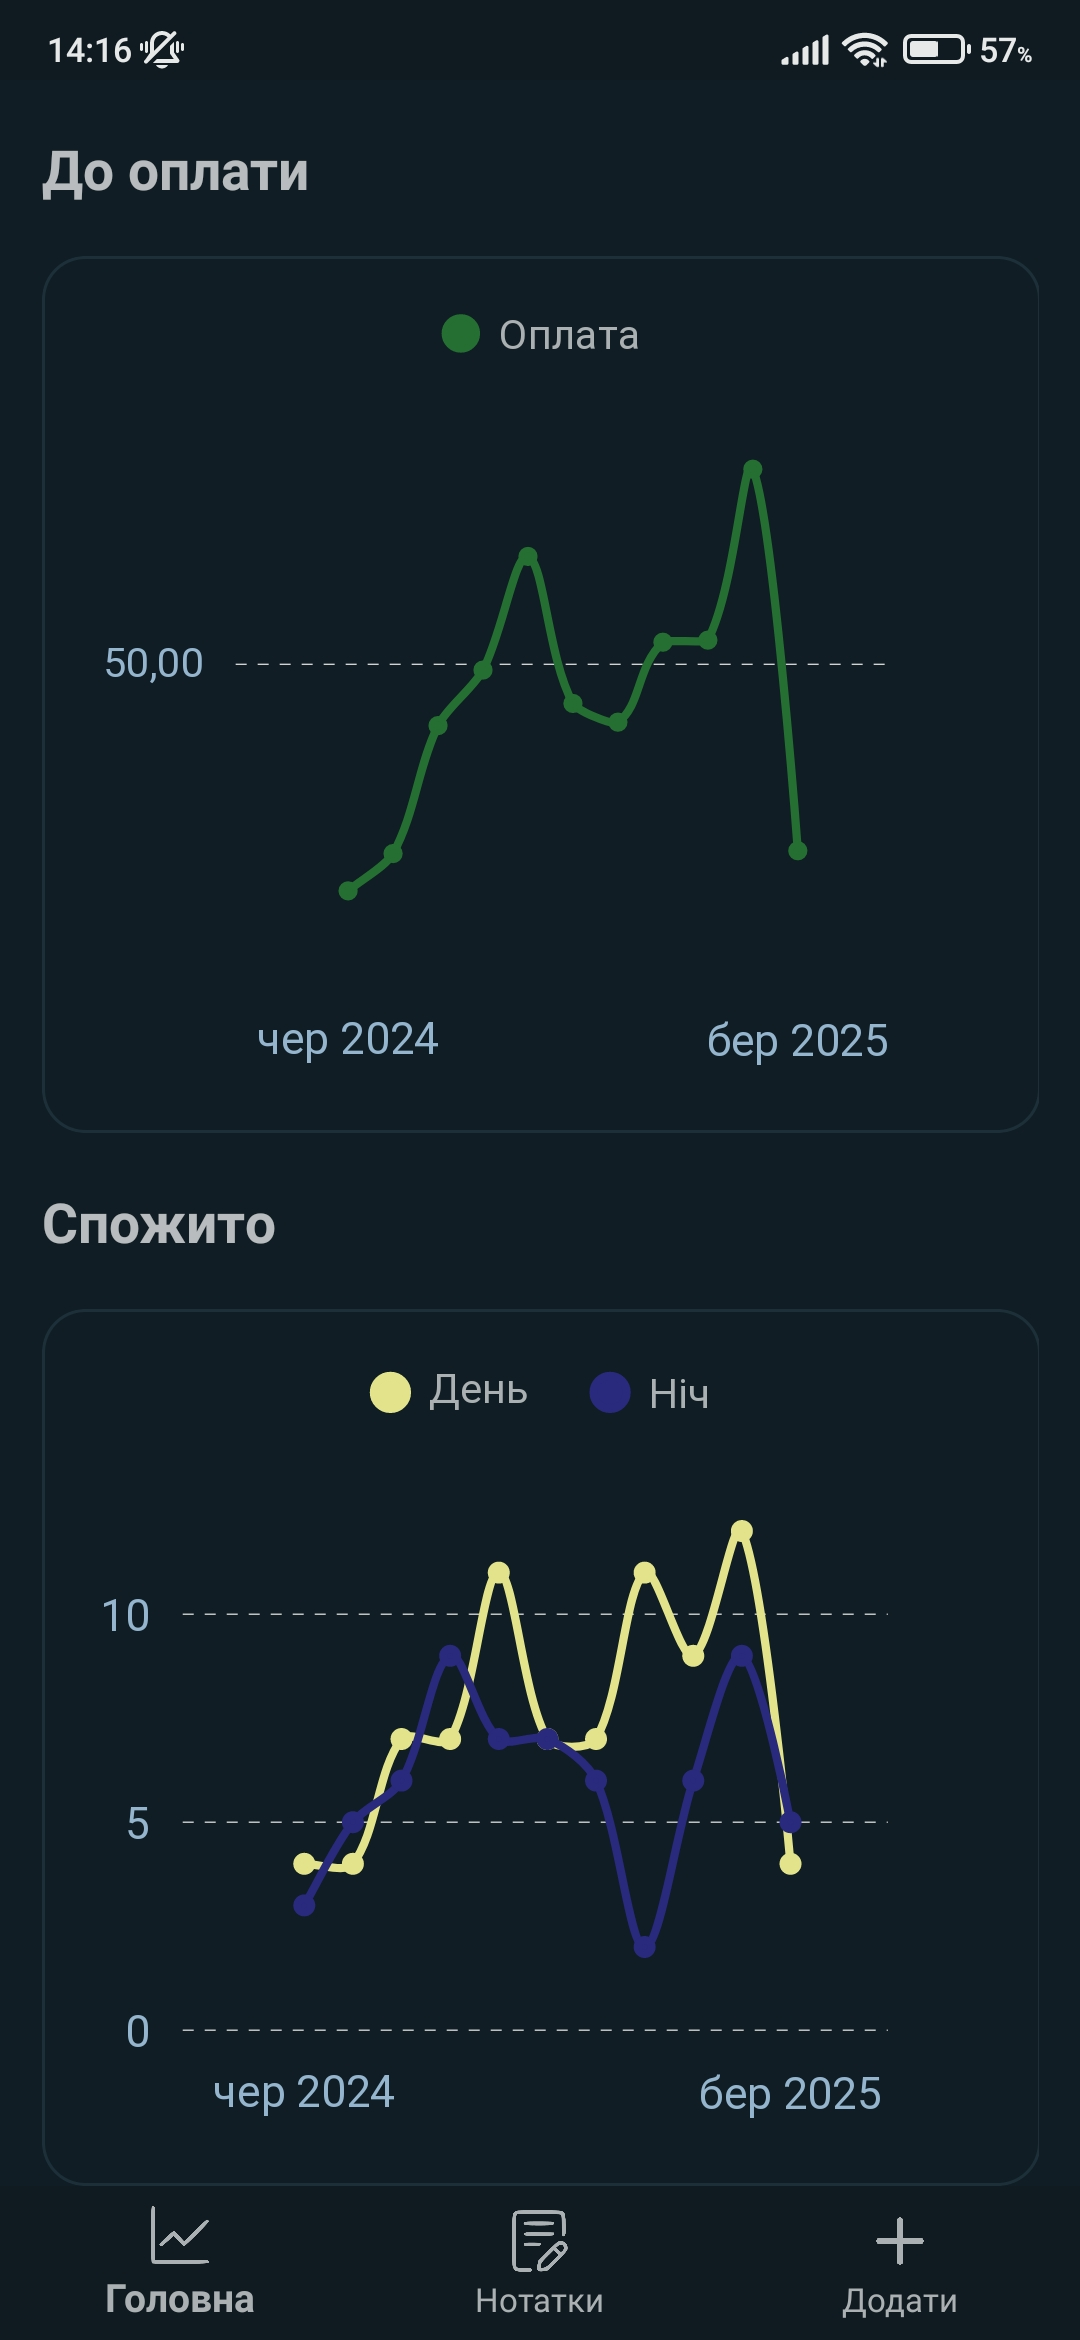
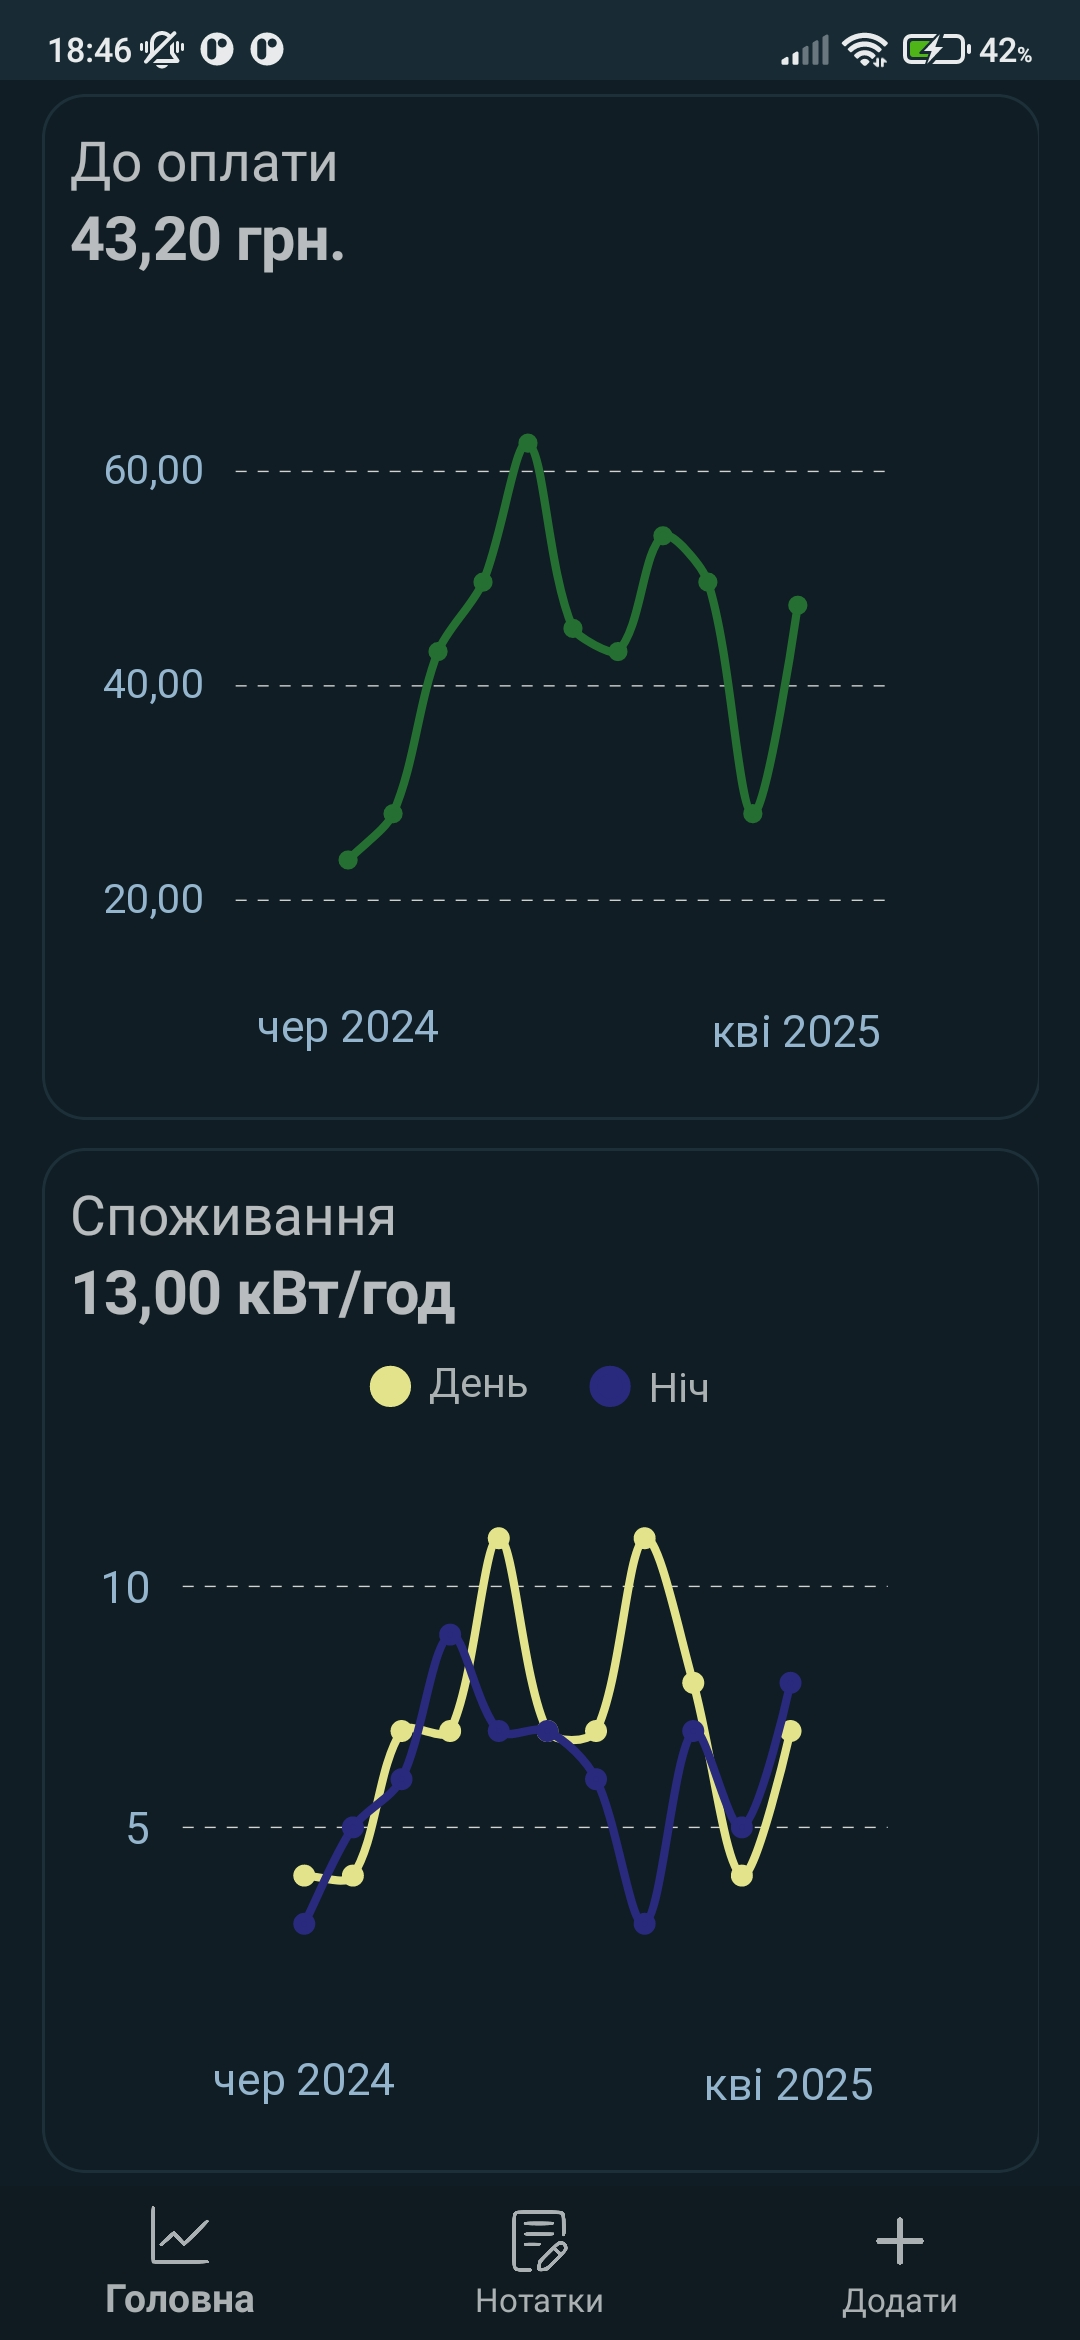
Added average values for amount to pay and kilowatt consumed

diff --git a/ElectricityApp/ElectricityApp/Pages/MainPage.xaml b/ElectricityApp/ElectricityApp/Pages/MainPage.xaml
@@ -17,6 +17,7 @@
                 <views:ChartContainerView
                     x:Name="AmountToPayChart"
                     Text="До оплати"
+                    AverageValue="{Binding NotesService.AverageAmount, StringFormat='{0:C2}'}"
                     Series="{Binding ChartsService.AmountsToPaySeries}"
                     XAxes="{Binding ChartsService.DateXAxes}"
                     YAxes="{Binding ChartsService.AmountToPayYAxes}"/>
@@ -25,6 +26,7 @@
                     x:Name="KilowattConsumedChart"
                     Grid.Row="1"
                     Text="Споживання"
+                    AverageValue="{Binding NotesService.AverageKilowattConsumed, StringFormat='{0:F2} кВт/год'}"
                     Series="{Binding ChartsService.KilowattConsumedSeries}"
                     XAxes="{Binding ChartsService.DateXAxes}"
                     YAxes="{Binding ChartsService.KilowattConsumedYAxes}"

diff --git a/ElectricityApp/ElectricityApp/Views/ChartContainerView.xaml b/ElectricityApp/ElectricityApp/Views/ChartContainerView.xaml
@@ -13,13 +13,19 @@
         BindingContext="{Binding Source={x:Reference This}}">
 
         <Grid
-            RowDefinitions="0.15*, *">
+            RowDefinitions="Auto, *">
 
-            <Label
-                Text="{Binding Text}"
-                VerticalTextAlignment="Center"
-                FontSize="20"
-                FontAttributes="Bold"/>
+            <VerticalStackLayout>
+                <Label
+                    Text="{Binding Text}"
+                    VerticalTextAlignment="Center"
+                    FontSize="20"/>
+                <Label
+                    Text="{Binding AverageValue}"
+                    VerticalTextAlignment="Center"
+                    FontSize="22"
+                    FontAttributes="Bold"/>
+            </VerticalStackLayout>
             <lvc:CartesianChart
                 Grid.Row="1"
                 x:Name="Chart"

diff --git a/ElectricityApp/ElectricityApp/Services/NotesService.cs b/ElectricityApp/ElectricityApp/Services/NotesService.cs
@@ -1,16 +1,20 @@
 using System.Collections.ObjectModel;
+using CommunityToolkit.Mvvm.ComponentModel;
 using ElectricityApp.EfStructures;
 using ElectricityApp.Models;
 
 namespace ElectricityApp.Services;
 
-public class NotesService
+public partial class NotesService : ObservableObject
 {
     private readonly ElectricityDbContext _dbContext;
     private readonly ChartsService _chartService;
 
     public ChartsService ChartsService => _chartService;
     public ObservableCollection<ElectricityConsumption> ElectricityConsumptions { get; }
+
+    [ObservableProperty] private decimal _averageAmount;
+    [ObservableProperty] private double _averageKilowattConsumed;
 
     public NotesService(ElectricityDbContext dbContext, ChartsService chartsService)
     {
@@ -27,6 +31,8 @@ public class NotesService
             ElectricityConsumptions.Add(r);
             _chartService.AddValues(r);
         }
+
+        UpdateAverageValues();
     }
 
     public void AddNote(ElectricityConsumption record)
@@ -39,6 +45,8 @@ public class NotesService
         _chartService.AddValues(record);
         _dbContext.ElectricityConsumptions.Add(record);
         _dbContext.SaveChanges();
+
+        UpdateAverageValues();
     }
 
     public async Task RemoveNote(ElectricityConsumption record)
@@ -47,11 +55,26 @@ public class NotesService
         _dbContext.ElectricityConsumptions.Remove(record);
         _dbContext.SaveChanges();
 
+        UpdateAverageValues();
         await _chartService.UpdateValues(ElectricityConsumptions);
     }
 
     private bool EqualsYearAndMonth(DateOnly date1, DateOnly date2)
     {
         return (date1.Year, date1.Month) == (date2.Year, date2.Month);
+    }
+
+    private void UpdateAverageValues()
+    {
+        if (ElectricityConsumptions.Count > 0)
+        {
+            AverageAmount = ElectricityConsumptions.Average(e => e.AmountToPay);
+            AverageKilowattConsumed = ElectricityConsumptions.Average(e => e.DayKilowattConsumed + e.NightKilowattConsumed);
+        }
+        else
+        {
+            AverageAmount = 0.0m;
+            AverageKilowattConsumed = 0.0;
+        }
     }
 }

diff --git a/ElectricityApp/ElectricityApp/EfStructures/DbExtensions.cs b/ElectricityApp/ElectricityApp/EfStructures/DbExtensions.cs
@@ -2,12 +2,12 @@
 
 namespace ElectricityApp.EfStructures;
 
-public static class Extensions
+public static class DbExtensions
 {
-    public static IServiceCollection AddElectricityDbContext(this IServiceCollection services)
+    public static IServiceCollection AddElectricityDbContext(this IServiceCollection services, string databaseName)
     {
         var connectionString =
-            Path.Combine(Environment.GetFolderPath(Environment.SpecialFolder.ApplicationData), "electricity.db");
+            Path.Combine(Environment.GetFolderPath(Environment.SpecialFolder.ApplicationData), databaseName);
 
         services.AddDbContext<ElectricityDbContext>(options =>
             options.UseSqlite($"Data Source={connectionString}"));

diff --git a/ElectricityApp/ElectricityApp/Views/ChartContainerView.xaml.cs b/ElectricityApp/ElectricityApp/Views/ChartContainerView.xaml.cs
@@ -17,6 +17,14 @@ public partial class ChartContainerView : ContentView
 		set => SetValue(TextProperty, value);
 	}
 
+    public static readonly BindableProperty AverageValueProperty =
+        BindableProperty.Create(nameof(AverageValue), typeof(string), typeof(ChartContainerView), default);
+
+    public string AverageValue
+    {
+        get => (string)GetValue(AverageValueProperty);
+        set => SetValue(AverageValueProperty, value);
+    }
 
     public static readonly BindableProperty SeriesProperty =
         BindableProperty.Create(nameof(Series), typeof(IEnumerable<ISeries>), typeof(ChartContainerView), default);

diff --git a/ElectricityApp/ElectricityApp/MauiProgramExtensions.cs b/ElectricityApp/ElectricityApp/MauiProgramExtensions.cs
@@ -24,7 +24,7 @@ public static class MauiProgramExtensions
         builder.Logging.AddDebug();
 #endif
 
-        builder.Services.AddElectricityDbContext();
+        builder.Services.AddElectricityDbContext("electricity.db");
 
         builder.Services.AddSingleton<ChartsService>();
         builder.Services.AddSingleton<NotesService>();

diff --git a/ElectricityApp/ElectricityApp/ViewModels/MainViewModel.cs b/ElectricityApp/ElectricityApp/ViewModels/MainViewModel.cs
@@ -6,4 +6,6 @@ namespace ElectricityApp.ViewModels;
 public partial class MainViewModel(NotesService _notesService) : ObservableObject
 {
     public ChartsService ChartsService => _notesService.ChartsService;
+
+    public NotesService NotesService => _notesService;
 }

diff --git a/README.md b/README.md
@@ -1,13 +1,21 @@
 # ElectricityApp
-The app developed for me(Ukrainian User)
-Support only Android(without tablets)
-Work only with day/night mode
+- The app developed for me(Ukrainian User)
+- Support only Android(without tablets)
+- Work only with day/night mode
 
-## Main
+## Technologies
+- .NET 8
+- MAUI 8.0.40
+- LiveCharts2
+
+## License
+[![MIT license](https://img.shields.io/badge/License-MIT-green.svg)](https://github.com/VitaliiVoitovych/ElectricityApp/blob/master/LICENSE.txt)
+
+### Main
 <img  src="/Images/main.jpg" width="300">
 
-## Notes
+### Notes
 <img  src="/Images/notes.jpg" width="300">
 
-## Add
+### Add
 <img  src="/Images/add.jpg" width="300">
